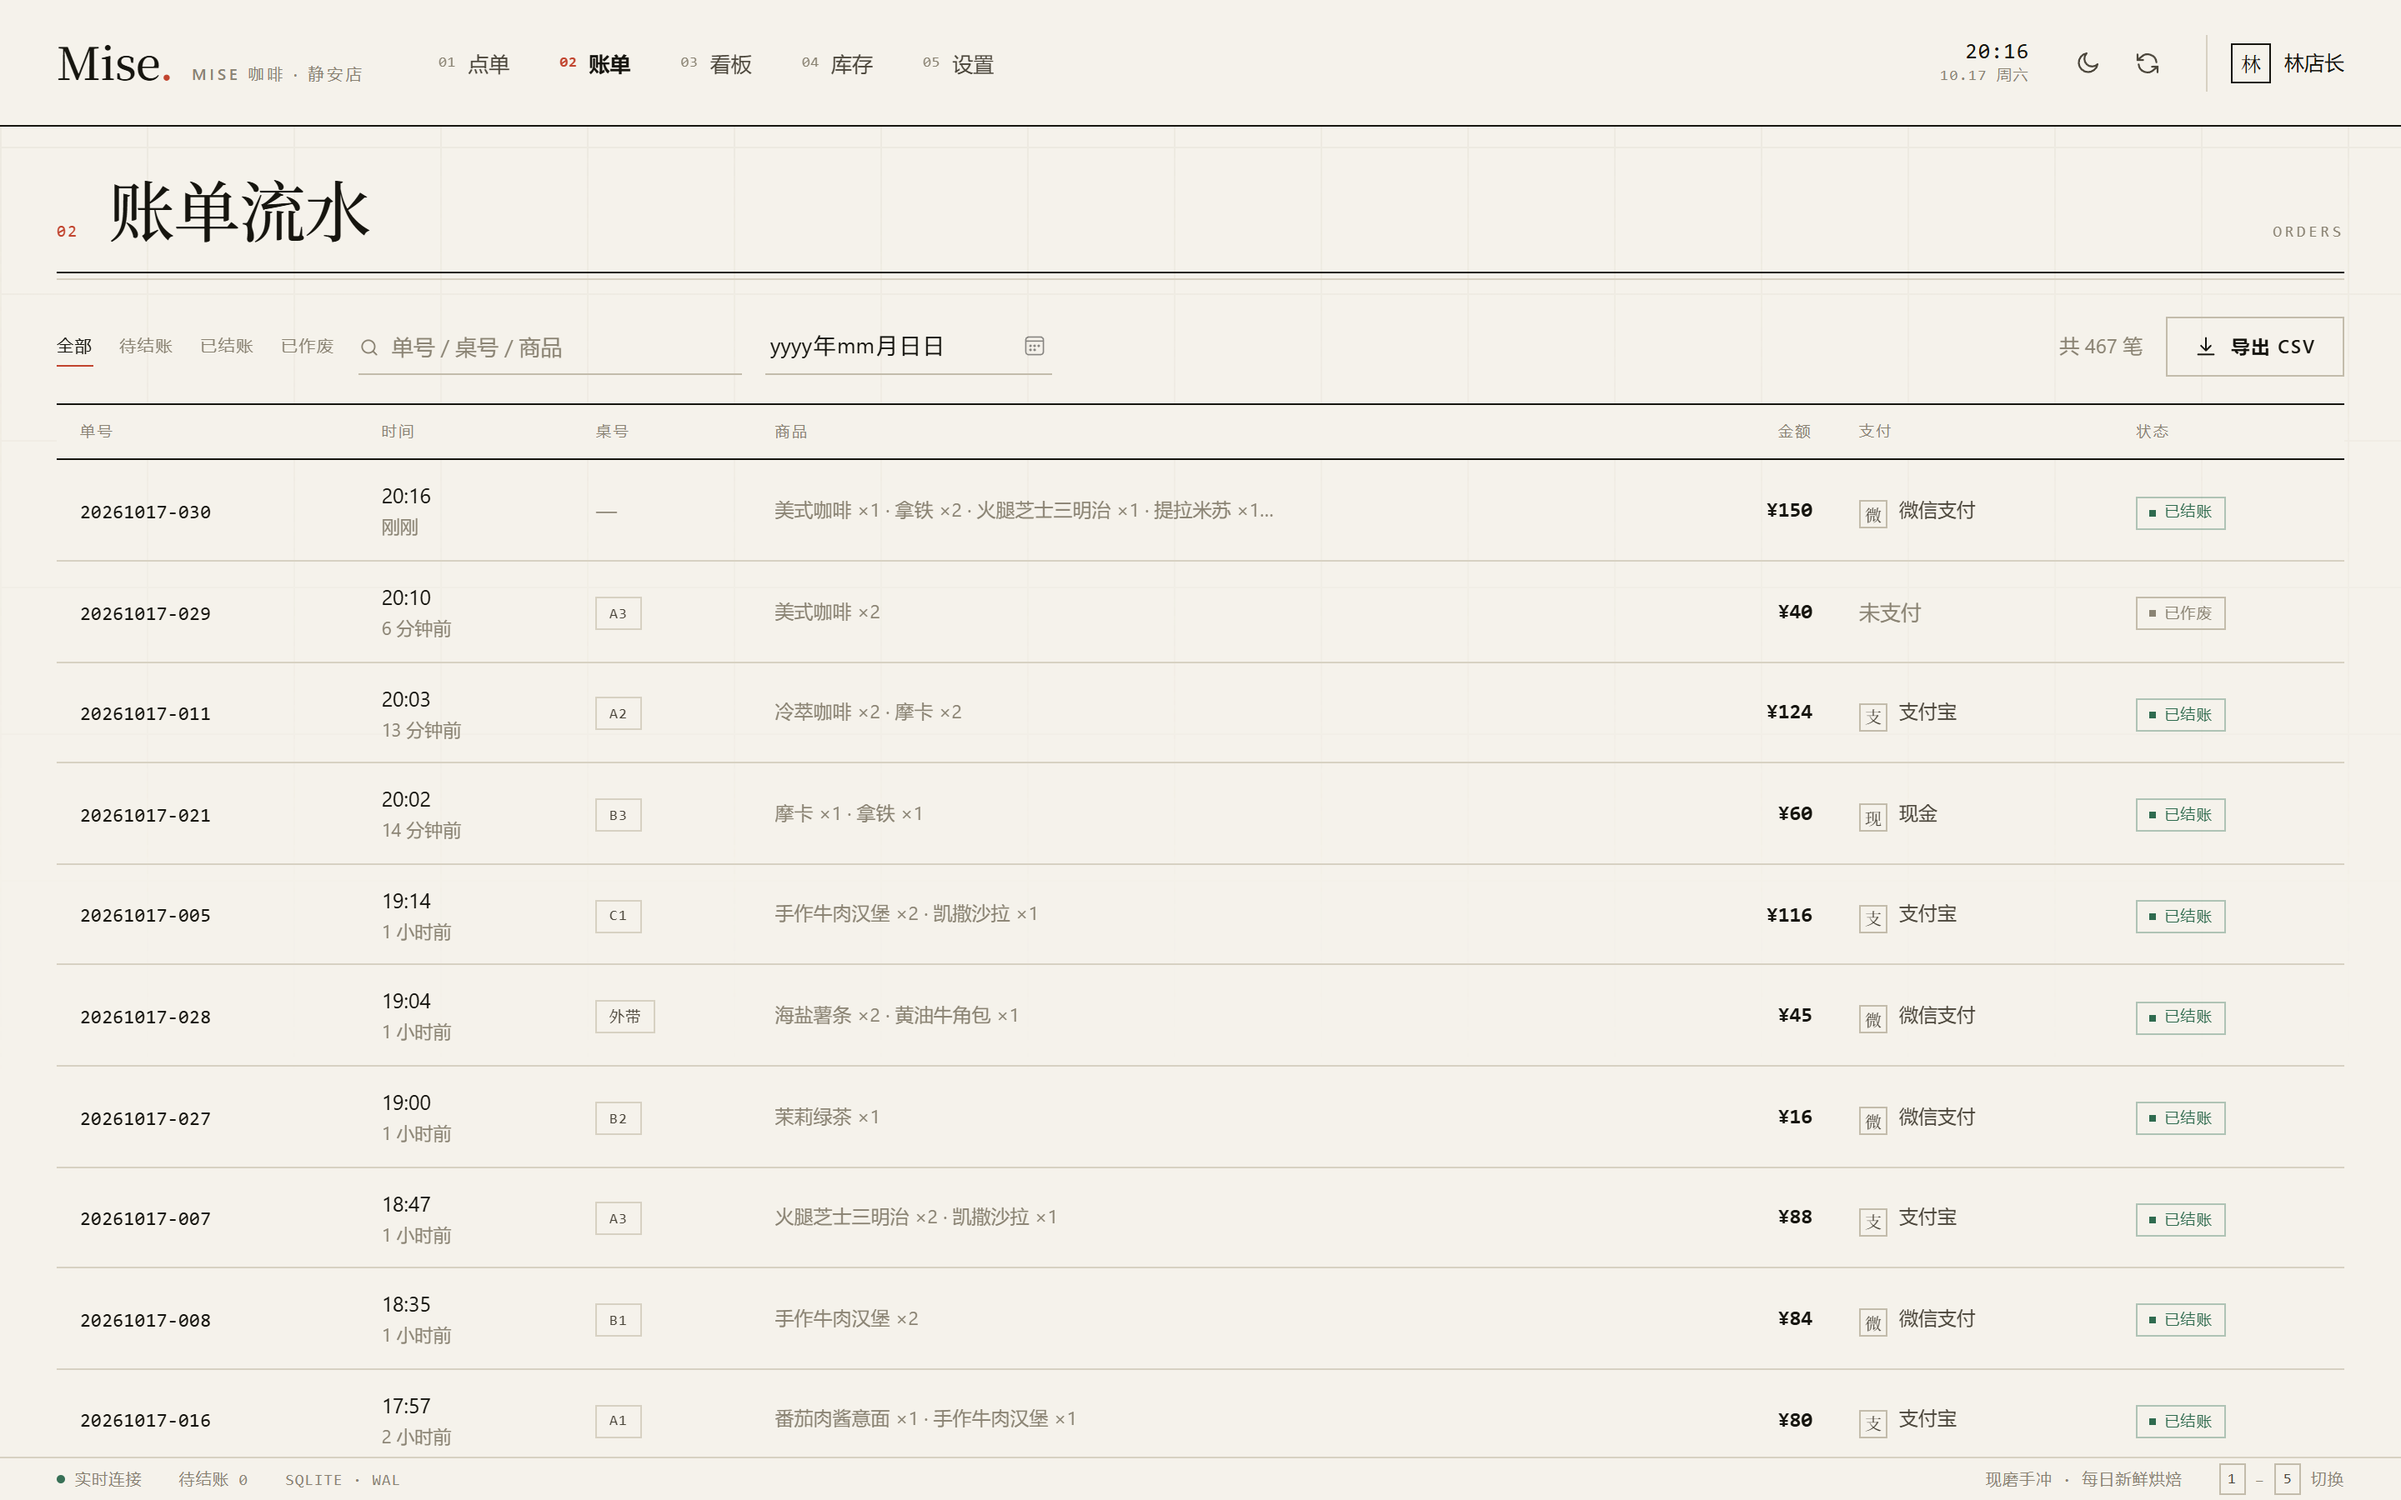
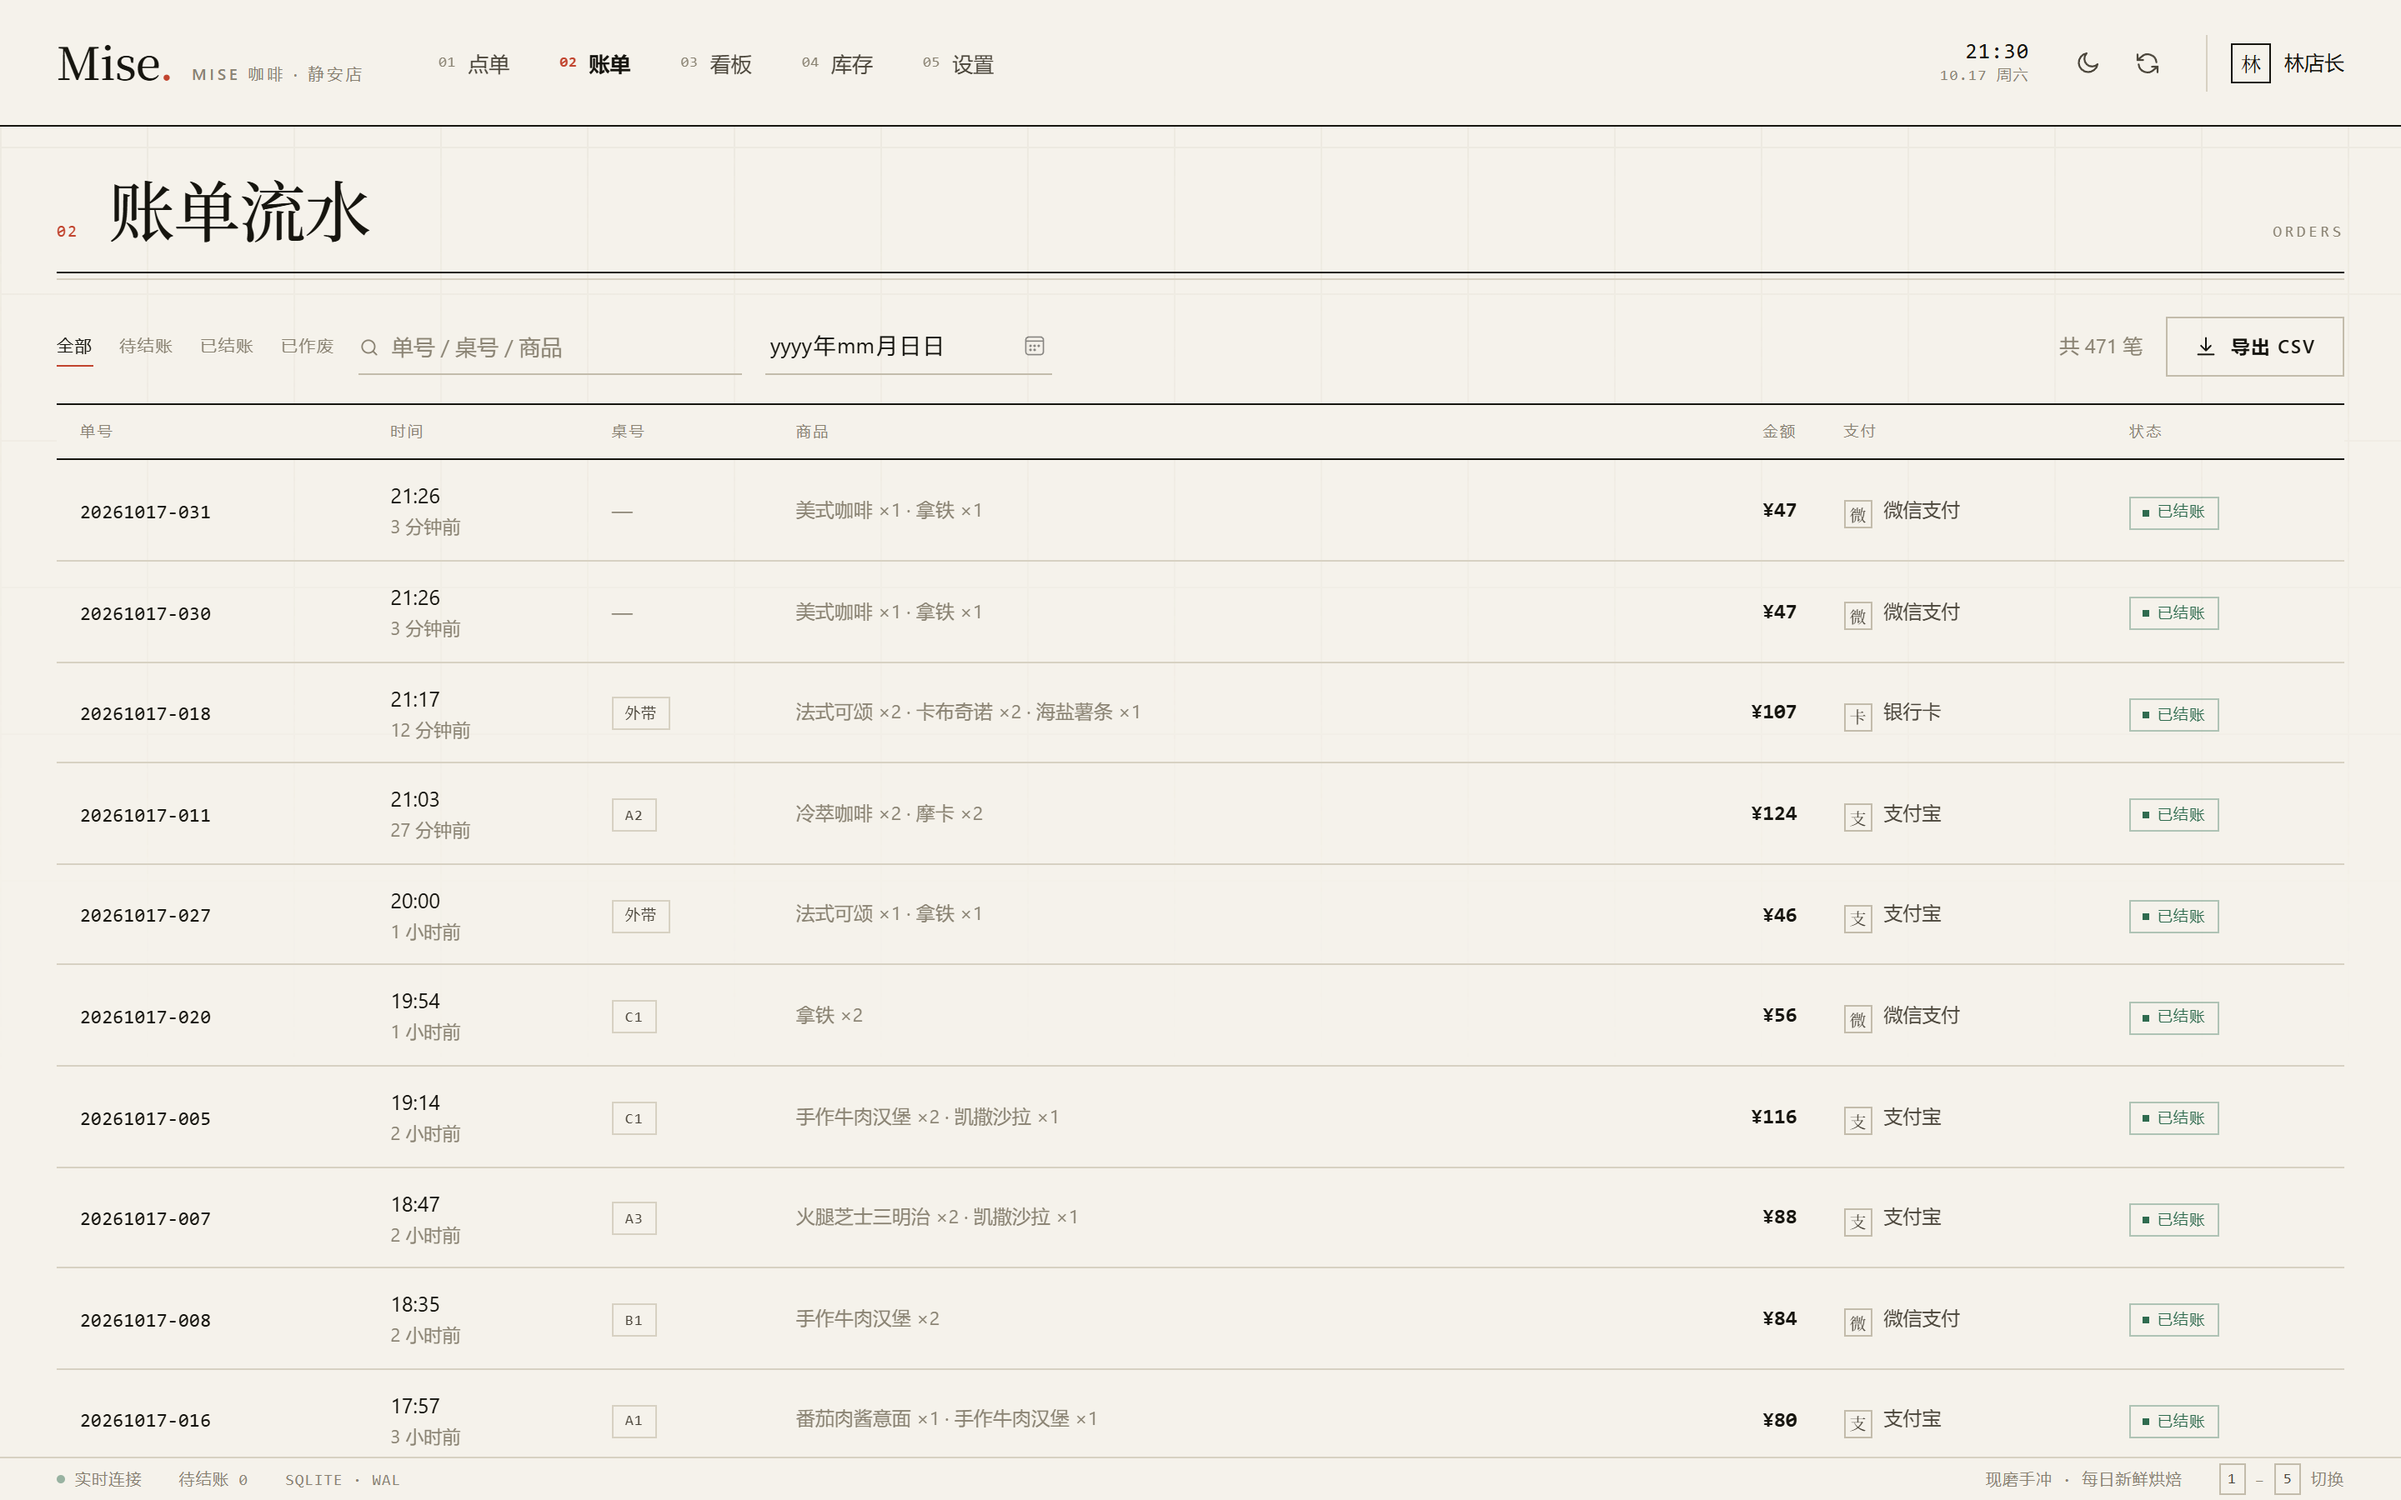
fix: 登录页改 hash 时不再抛异常，退出登录不再渲染幽灵 DOM
route() 没有检查外壳是否已建好。停在登录页时手输地址或按浏览器
前进/后退触发 hashchange，shell 还是 null，直接抛
TypeError: Cannot read properties of null (reading 'view')。

退出登录也有同一个根因：logout() 里 location.hash = '' 会再触发
一次 hashchange，此时 shell.view 已被 showLogin() 换掉，指向一个
脱离文档的节点，route() 照样往里面渲染并跑 mount()，等于凭空
发起一轮接口请求。

修法：
- route() 开头判断 shell 是否存在，不存在直接返回
- showLogin() 里把 shell 断开

顺带更新账单页截图，反映新增的分页脚注和加载更多。

diff --git a/public/src/main.js b/public/src/main.js
@@ -71,6 +71,10 @@ async function boot() {
 
 function showLogin() {
   stopLive();
+  // 登录页没有外壳，把引用断开：退出登录时 location.hash 会被重置，
+  // 那个 hashchange 会触发一次 route()，若 shell 还指着已脱离文档的节点，
+  // 就会往幽灵 DOM 里渲染并跑一遍 mount()，凭空发起一轮请求。
+  shell = null;
   app.className = '';
   app.innerHTML = loginView.render();
   loginView.mount(app, ctx);
@@ -192,6 +196,10 @@ export function navigate(key) {
 }
 
 async function route({ silent = false } = {}) {
+  // 停在登录页时改 hash（手输地址、浏览器前进后退）不该渲染视图，
+  // 此时 shell 还没建起来，硬渲染会抛 null 引用。
+  if (!shell) return;
+
   const key = parseHash();
   const view = VIEWS[key];
   const first = currentKey === null;
